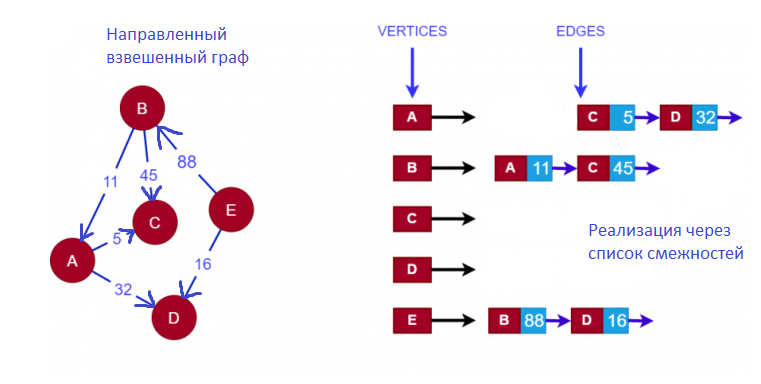
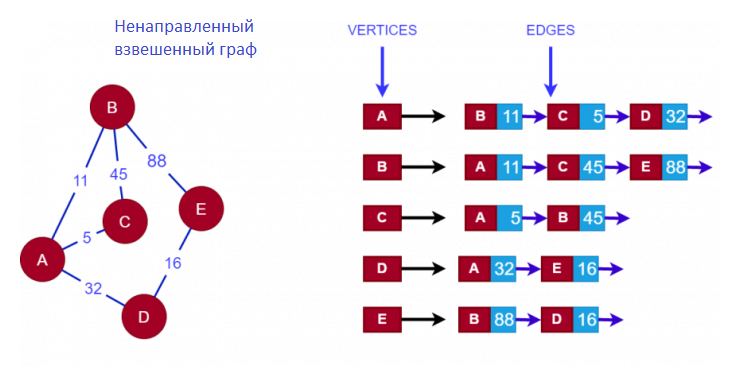
final task 10

diff --git a/hw04_JS/Task10/Modules/List.js b/hw04_JS/Task10/Modules/List.js
@@ -1,21 +1,22 @@
 /**
- * Узел списка
+ * Узел списка смежностей графа
  */
  class Node {
-    constructor(value) {
-        this.value = value;
+    constructor(vertex, weight) {
+        this.vertex = vertex;
+        this.weight = weight;
         this.next = null;
     }
 
     printNode() {
-        console.log(this.value);
+        console.log(this.vertex + ", " + this.weight);
     }
 }
 
 /**
- * Односвязный список
+ * Односвязный список смежностей графа
  */
-class List {
+export class List {
     constructor() {
         this.head = null;
         this.tail = null;
@@ -48,11 +49,11 @@ class List {
 
     /**
      * Вставка узла в конец списка
-     * @param {*} value значение узла, по которому строится узел
+     * @param {*} vertex значение узла, по которому строится узел
      * @returns экземпляр класса (сам объект)
      */
-    add(value) {
-        const newNode = new Node(value);
+    add(vertex, weight) {
+        const newNode = new Node(vertex, weight);
         if (!this.head || !this.tail) {
             this.head = newNode;
             this.tail = newNode;
@@ -68,16 +69,16 @@ class List {
 
     /**
      * Функция поиска элемента по заданному значению
-     * @param {*} value заданное значение
+     * @param {*} vertex заданное значение
      * @returns первый встретившийся в списке элемент с заданным значением 
      */
-    find(value) {
+    find(vertex) {
         if (this.head == null) {
             return null;
         }
         let node = this.head;
         while(node != null) {
-            if (node.value === value) {
+            if (node.vertex === vertex) {
                 return node;
             }
             node = node.next;
@@ -87,18 +88,18 @@ class List {
 
     /**
      * Изменяет все элементы в списке по заданному значению, возвращает null
-     * @param {*} value значение, которое будет заменено
+     * @param {*} vertex значение, которое будет заменено
      * @param {*} newValue новое значение узла
      * @returns экземпляр класса (сам объект)
      */
-    change(value, newValue) {
+    change(vertex, newValue) {
         if (this.head == null) {
             return null;
         }
         let node = this.head;
         while(node != null) {
-            if (node.value === value) {
-                node.value = newValue;
+            if (node.vertex === vertex) {
+                node.weight = newValue;
             }
             node = node.next;
         }
@@ -107,16 +108,16 @@ class List {
 
     /**
      * Удаление всех элементов в списке по заданному значению
-     * @param {*} value значение, по которому будут удалены узлы
+     * @param {*} vertex значение, по которому будут удалены узлы
      * @returns экземпляр класса (сам объект)
      */
-    delete(value) {
+    delete(vertex) {
         if (this.head == null) {
             return null;
         }
         let deletedNode = null;
         // удаление начального узла
-        if (this.head.value == value) {
+        if (this.head.vertex == vertex) {
             deletedNode = this.head;
             this.head = this.head.next;
         }
@@ -124,7 +125,7 @@ class List {
         let currentNode = this.head;
         if (currentNode != null) {
             while (currentNode.next != null) {
-                if (currentNode.next.value == value) {
+                if (currentNode.next.vertex == vertex) {
                     deletedNode = currentNode.next;
                     currentNode.next = currentNode.next.next;
                 } else {
@@ -133,21 +134,10 @@ class List {
             }
         }
         // удаляем конец списка
-        if (this.tail.value == value) {
+        if (this.tail.vertex == vertex) {
             this.tail = currentNode;
         }
         return this;
     }
     
 }
-
-// "тесты"
-let list = new List();
-list.add("qwerty").add(false).add(12345).add("AAAA").add("234erfd3").add(12345);
-list.change(12345, 909);
-console.log("Длина списка:" + list.length());
-list.find("AAAA").printNode();
-list.delete("AAAA").delete("909").delete("qwerty");
-
-console.log("Оставшийся список:")
-list.printList();

diff --git a/hw04_JS/Task10/Modules/Graph.js b/hw04_JS/Task10/Modules/Graph.js
@@ -1,0 +1,120 @@
+import {List} from './List.js';
+import {NonExistentLink, InvalidValue, ExistingValue} from './Errors.js';
+
+export class Graph {
+    constructor() {
+        this.vertices = new Map();
+    }
+
+    addVertex(vertex) {
+        if (this.vertices.get(vertex)) {
+            throw new ExistingValue(`Заданная вершина ${vertex} уже существует`);
+        }
+        this.vertices.set(vertex, new List()); 
+        return this;
+    }
+
+    addEdge(vertex1, vertex2, weight) {
+        if (weight < 0) {
+            throw new InvalidValue(` ${weight} - Недопустимый вес графа`);
+        }
+        if (!this.vertices.get(vertex1) || !this.vertices.get(vertex2)) {
+            throw new NonExistentLink(`Заданной(-ых) вершины(вершин) не существует`);
+        }
+        this.vertices.get(vertex1).add(vertex2, weight);
+        this.vertices.get(vertex2).add(vertex1, weight);
+        return this;
+    }
+
+    printGraph() {
+        for (let entry of this.vertices) { 
+            console.log(entry);
+            // entry.printList();
+        }
+    }
+
+    removeVertex(vertex) {
+        if (!this.vertices.get(vertex)) {
+            throw new NonExistentLink("Заданной вершины не существует");
+        } 
+        let neighbors = this.vertices.get(vertex);
+        let node = neighbors.head;
+            while(node != null) {
+                this.vertices.get(node.vertex).delete(vertex);
+                node = node.next;
+            }
+        this.vertices.delete(vertex);
+        return this;
+    }
+
+    removeEdge(vertex1, vertex2) {
+        if (!this.vertices.get(vertex1) || !this.vertices.get(vertex2)) {
+            throw new NonExistentLink("Заданной(-ых) вершины(вершин) не существует");
+        }
+        this.vertices.get(vertex1).delete(vertex2);
+        this.vertices.get(vertex2).delete(vertex1);
+        return this;
+    }
+
+
+
+    // возвращает вершину с минимальным весом
+    minDistance(distances, vizited) {
+        let minDistance = Infinity;
+        let vertex = null;
+        for (let v in distances) {
+            if (distances[v] < minDistance && !vizited.includes(v)) {
+                minDistance = distances[v];
+                vertex = v;
+            }
+        }
+        return vertex;
+    }
+
+    dijkstra(startVertex) {
+        if (!this.vertices.get(startVertex)) {
+            throw new NonExistentLink(`Заданной вершины не существует`);
+        }
+        let distances = {};
+        let vizited = [];
+
+        // присвоить Infinity всем вершинам кроме начальной
+        for (let i of this.vertices.keys()) {
+            if (i == startVertex) {
+                distances[i] = 0;
+            } else {
+                distances[i] = Infinity;
+            }
+        }
+
+        let currentVertex = this.minDistance(distances, vizited);
+
+        while(currentVertex != null) {
+            let neighbors = this.vertices.get(currentVertex);
+            let node = neighbors.head;
+            while(node != null) {
+                let newDistance = distances[currentVertex] + node.weight;
+                if (distances[node.vertex] > newDistance) {
+                    distances[node.vertex] = newDistance;
+                }
+                node = node.next;
+            }
+            vizited.push(currentVertex);
+            currentVertex = this.minDistance(distances, vizited)
+        }
+        return distances;
+    }
+}
+
+// "тест-драйв"
+// let graph = new Graph();
+// graph.addVertex("A").addVertex("B").addVertex("C").addVertex("D").addVertex("E").addVertex("F").addVertex("G");
+// graph.addEdge("B","A", 1).addEdge("A","G", 1).addEdge("A","F", 7);
+// graph.addEdge("F","E", 3).addEdge("B","F", 2);
+// graph.addEdge("F","C", 6).addEdge("F", "D", 5);
+// graph.addEdge("B","C", 2).addEdge("C","D", 4).addEdge("E","D", 10).addEdge("F", "G", 2);
+// graph.printGraph();
+// graph.dijkstra("A", "D");
+// graph.removeVertex("F");
+// graph.removeEdge("A", "G");
+// graph.printGraph();

diff --git a/hw04_JS/Task10/Main.js b/hw04_JS/Task10/Main.js
@@ -1,0 +1,57 @@
+import { Graph } from "./Modules/Graph.js";
+import promptSync from 'prompt-sync';
+import { InvalidValue } from "./Modules/Errors.js";
+
+
+
+let inputValues = function (graph) {
+    const prompt = promptSync();
+    let message = "Введите список городов и цен -> "
+    let regex = /^[a-zA-Z]*;[a-zA-Z]*=[0-9]*$/;
+    let result;
+    console.log(message);
+    while (result != "") {
+        result = prompt();
+        if (!regex.test(result)) {
+            if (/^[a-zA-Z]*;[a-zA-Z]*$/.test(result)) {
+                let arr = result.split(";");
+                return arr;
+            } else {
+                throw new InvalidValue("Неправильный ввод");
+            }
+        } else {
+            let arr = result.split(/[;=]+/);
+            let vertex1 = arr[0], vertex2 = arr[1], weight = Number(arr[2]);
+            graph.addEdge(vertex1, vertex2, weight);
+            console.log(arr);
+        }
+    }
+}
+
+
+let graph = new Graph();
+let cities = ["A", "B", "C", "D", "E", "F", "G", "H", "I", "J"];
+for (let i of cities) {
+    try {
+        graph.addVertex(i);
+    } catch (err) {
+        console.log(err.message);
+    }
+}
+let arr = null;
+try {
+    arr = inputValues(graph);
+} catch (err) {
+    console.log(err.message);
+}
+let distances
+try {
+    distances = graph.dijkstra(arr[0]);
+} catch (err) {
+    console.log(err.message);
+}
+if (distances[arr[1]] == Infinity) {
+    console.log("Undefined");
+} else {
+    console.log(`Наименьшая стоимость дороги: ${distances[arr[1]]}`);
+}

diff --git a/hw04_JS/Task10/Modules/Errors.js b/hw04_JS/Task10/Modules/Errors.js
@@ -1,0 +1,22 @@
+export class NonExistentLink extends Error {
+    constructor(message) {
+        super(message);
+        this.name = "NonExistentLink";
+    }
+}
+
+export class InvalidValue extends Error {
+    constructor(message) {
+        super(message);
+        this.name = "InvalidValue";
+    }
+}
+
+export class ExistingValue extends Error {
+    constructor(message) {
+        super(message);
+        this.name = "Existingelement";
+        
+        // super("Existingelement", message);
+    }
+}

diff --git a/hw04_JS/Task10/README.md b/hw04_JS/Task10/README.md
@@ -1,0 +1,10 @@
+Программа получает на вход список 10 городов. Далее вводятся строки типа “<город1>;<город2>=<цена проезда>”, определяющие цену дороги от одного города к другому. Последняя строка - “<городA>;<городB>”. Программа должна определить наименьшую стоимость проезда от городаА до городаB. (если таких дорог не существует, то выведите стоимость “undefined”)
+
+Реализация: Ненаправленный взвешенный граф, представленный как Map (ключ - вершина, значение - список ее смежностей). Алгоритм поиска наименьшей стоимости - алгортим Дейкстры.
+
+Операции для графа:
+1) Добавить вершину
+2) Добваить узел
+3) Удалить вершину
+4) Удалить ребро
+5) Поиск кратчайшего пути
